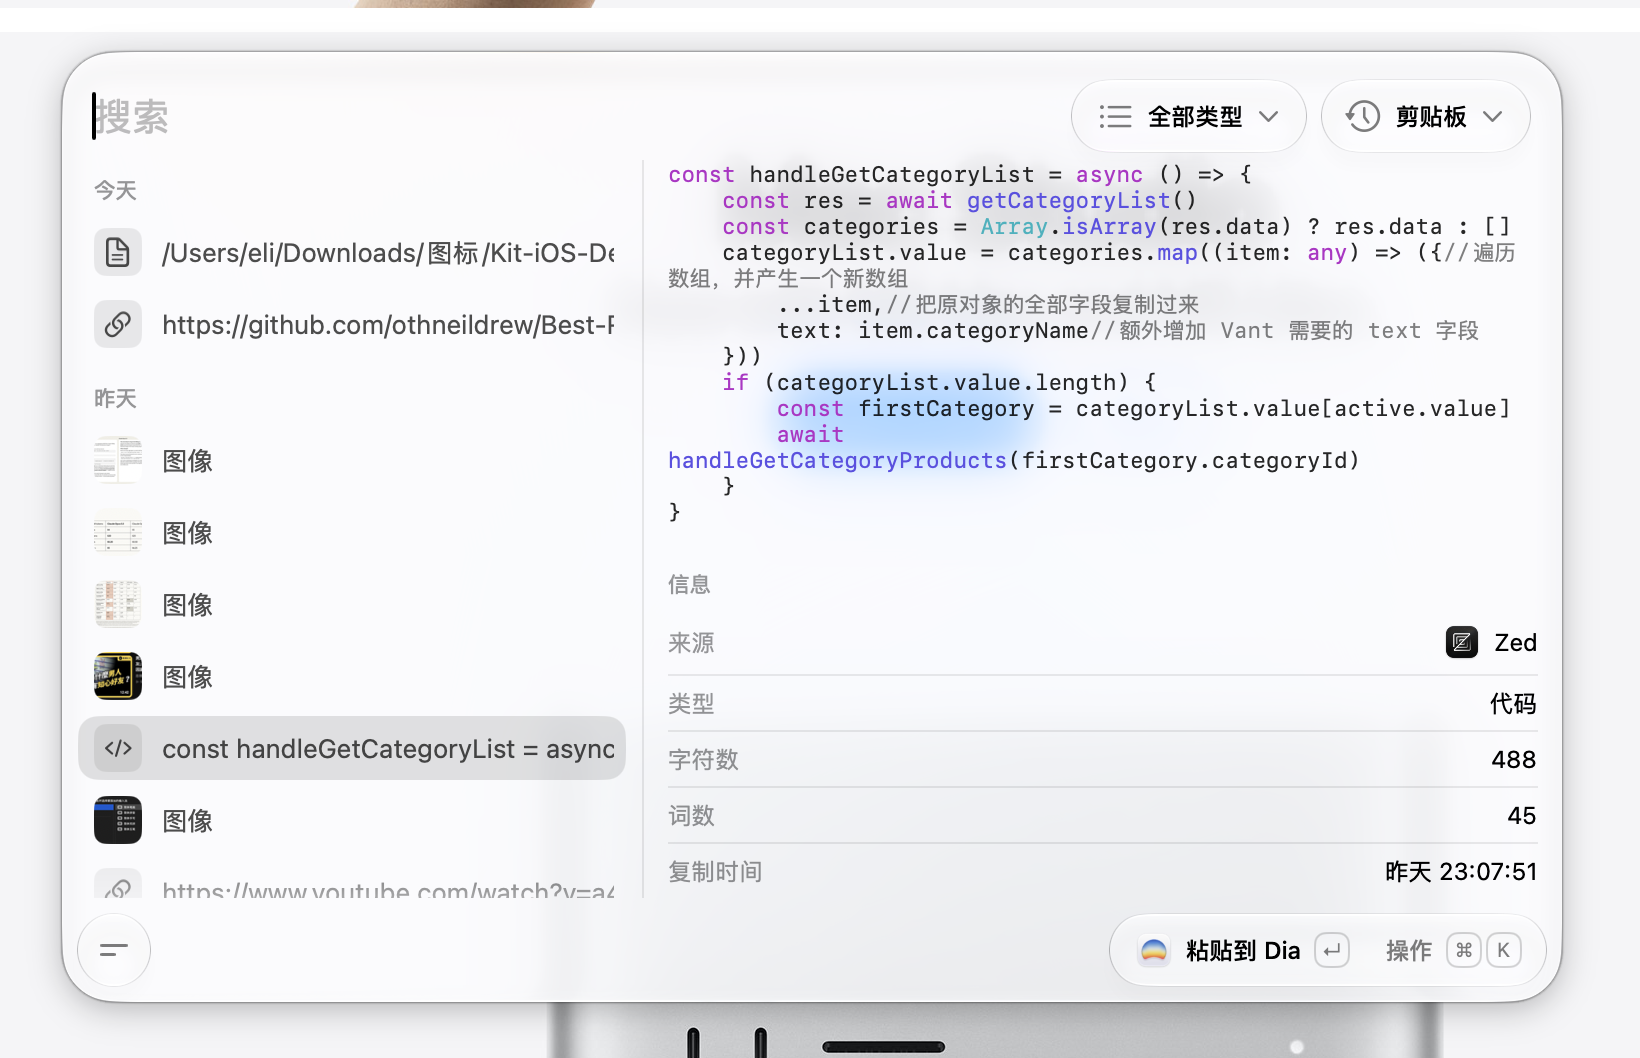
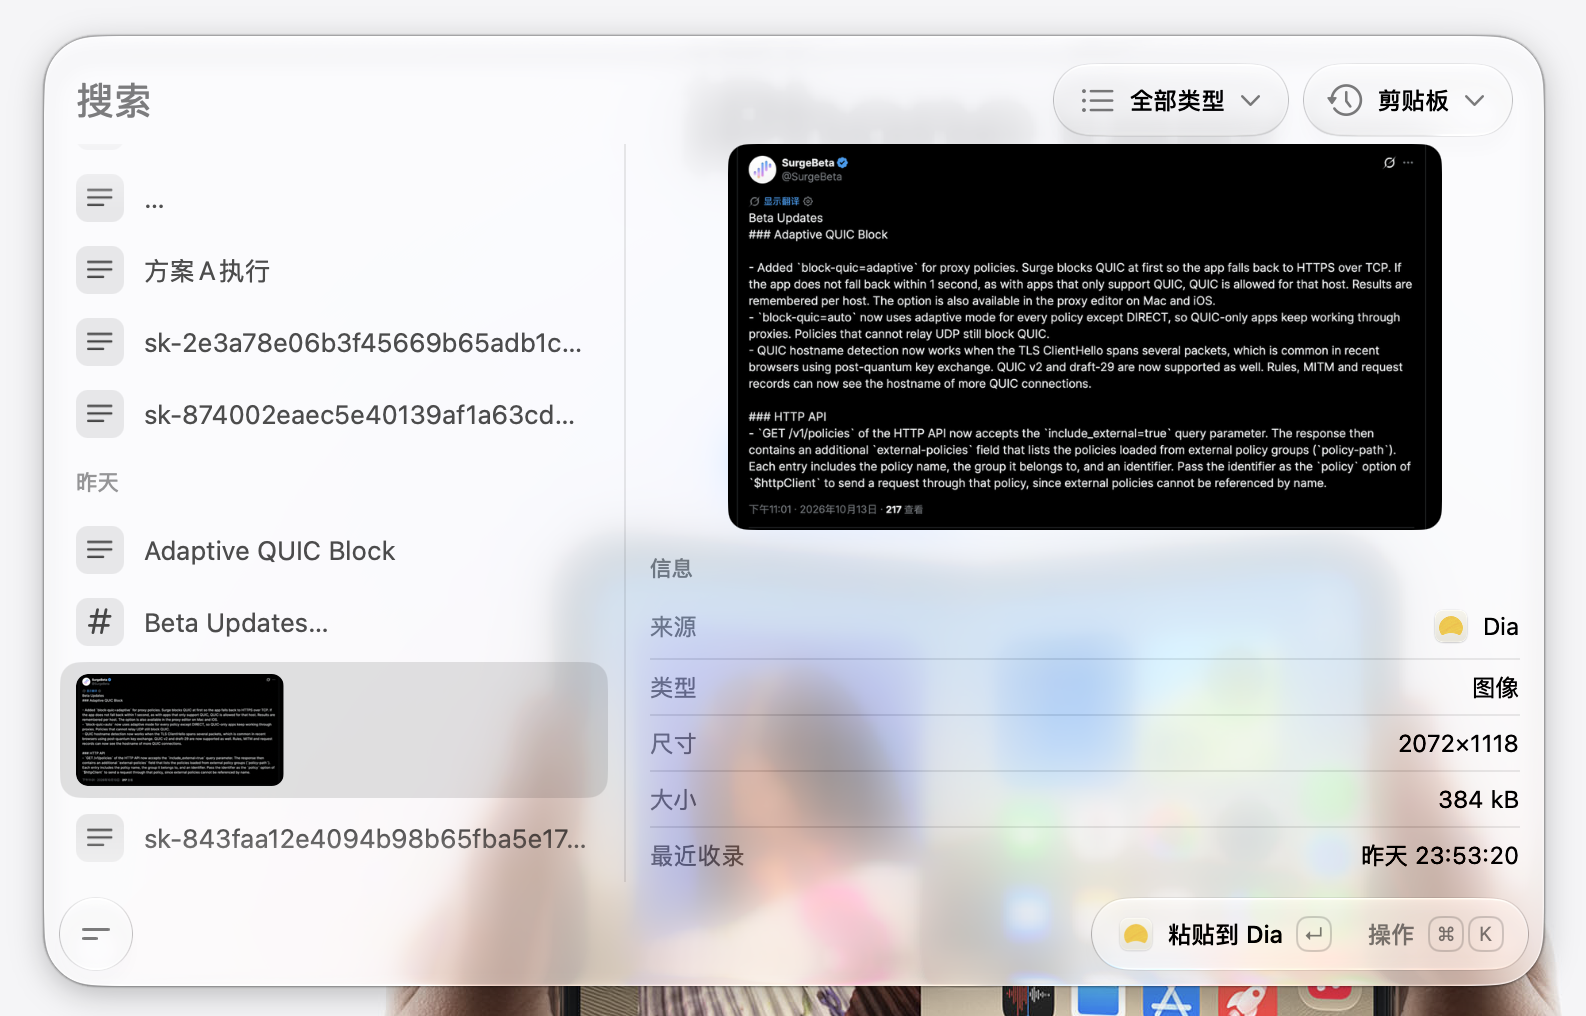
docs: update app screenshot and rewrite README in CN and EN

diff --git a/README.en.md b/README.en.md
@@ -5,8 +5,8 @@
 <h1 align="center">Kit</h1>
 
 <p align="center">
-  A native macOS clipboard history tool built for keyboard workflows.<br>
-  Capture text, code, links, and images, then search and paste them back into the source app.
+  A native macOS clipboard history tool built for keyboard workflows<br>
+  Capture text, code, links, and images, then search and paste back into the source app
 </p>
 
 <p align="center">
@@ -24,39 +24,40 @@
   <img src=".github/assets/readme-screenshot.png" alt="Kit clipboard history palette" width="820">
 </p>
 
-## What is Kit?
+## Overview
 
-Kit turns clipboard history into a command palette you can summon whenever you need it. Open the palette, search what you copied, select an item, and paste it back into the app you were using.
+Kit transforms clipboard history into an on-demand command palette, enabling seamless capture, search, pinning, and pasting entirely via keyboard workflows, with all data kept strictly on your local device
 
-## Features
+## Key Features
 
-- **Capture everyday content**: Save text, code, links, and images with their source app
-- **Find items quickly**: Search the full history with SQLite full-text search, including Chinese Pinyin and initials
-- **Stay on the keyboard**: Open the palette, search, select, and paste without leaving your workflow
-- **Preview images**: Browse thumbnails and hover over the image in the right-hand preview for a larger view
-- **Manage history**: Browse items by date, set a retention period, and exclude apps from capture
+- **Multi-Type Capture & Smart Classification**: Automatically captures plain text, Markdown, code, links, file paths, and images with source app and timestamp metadata, supporting local rule classification and opt-in LLM classification (OpenAI, OpenRouter, TypeSafe)
+- **Multi-Dimensional Search & Offline OCR**: Instant results powered by SQLite FTS full-text search, featuring full Pinyin and initialism matching for Chinese, plus local offline OCR to index and highlight matching text within image previews
+- **Keyboard-First Workflow**: Summon the palette instantly with a customizable global shortcut, paste directly, copy immediately, or paste continuously while keeping the palette open, automatically switching to English input to ensure uninterrupted typing, with quick deletion undo
+- **Image Pinning & Full Preview**: Pin image clippings to the front of the screen as floating sticky notes, supporting small, medium, and large sizing with transparent checkerboard backgrounds, and hover over list items for instant full-size previews
+- **Stacks & Organization**: Organize frequent clippings into custom Stacks, with dedicated shortcuts to switch rapidly across groups and content type filters
+- **Privacy & Granular Control**: All history resides strictly in local SQLite storage without cloud dependencies, with customizable application exclusion lists (Keychain Access and Passwords excluded by default), retention policies, and temporary capture pausing
+- **Native macOS Craftsmanship**: Built purely with Swift and SwiftUI/AppKit, offering Light/Dark appearances, Frosted Glass and Liquid Glass visual materials, subtle keyboard sound effects, and trackpad haptic feedback
 
-## Workflow
+## Shortcuts
 
-Press `Option + W` to show or hide the palette. Type to filter history, move with the arrow keys, and press Return to paste.
-
-| Shortcut | Action |
+| Shortcut | Description |
 | --- | --- |
-| `Return` | Paste and close the palette |
-| `⌘ Return` | Copy the selected item |
-| `⌘ Z` | Undo the last deletion; after typing, undo the text edit first |
-
-The action menu also lets you paste while keeping the palette open, reveal an image in Finder, or delete an item. You can record a different global shortcut in Settings.
+| `⌥ W` | Toggle clipboard palette (customizable) |
+| `Return` | Paste selected item and close palette |
+| `⇧ Return` | Paste selected item and keep palette open |
+| `⌘ Return` | Copy selected item to system clipboard |
+| `⌘ K` | Open item action menu |
+| `⌘ Z` | Undo last deletion (prioritizes text undo when editing) |
+| `⌥ ↓` / `⌥ ↑` | Switch to next / previous Stack |
+| `⌥ ⌘ ↓` / `⌥ ⌘ ↑` | Switch to next / previous content type filter |
 
 ## Privacy and Permissions
 
-Clipboard history and images stay on your Mac; no cloud service is required. Choose how long to keep history and which apps to exclude. Keychain Access and Passwords are excluded by default.
-
-Kit needs Accessibility permission to send the selected content back to the app that was active before the palette opened.
+All clipboard history and search indexes remain on your Mac without external cloud sync, and macOS Accessibility permission is required on first paste to return content to your active application
 
 ## Build from Source
 
-You need macOS 27, Xcode 27, and Swift 6.4.
+Requirements: macOS 27+, Xcode 27+, Swift 6.4+
 
 ```bash
 git clone https://github.com/imeelinew/Kit.git
@@ -64,8 +65,8 @@ cd Kit
 open Kit.xcodeproj
 ```
 
-In Xcode, select the **Kit** scheme and choose **Product → Run**. Grant Accessibility permission when prompted before the first paste operation.
+Select the **Kit** scheme in Xcode and choose **Product → Run** to build and launch
 
 ## License
 
-Kit is distributed under the [GNU Affero General Public License v3.0](LICENSE).
+Kit is open-sourced under the [GNU Affero General Public License v3.0](LICENSE)

diff --git a/README.md b/README.md
@@ -5,8 +5,8 @@
 <h1 align="center">Kit</h1>
 
 <p align="center">
-  为键盘工作流设计的原生 macOS 剪贴板历史工具。<br>
-  捕获文字、代码、链接和图片，快速搜索并粘贴回原应用。
+  为键盘工作流设计的原生 macOS 剪贴板历史工具<br>
+  捕获文字、代码、链接和图片，快速搜索并粘贴回原应用
 </p>
 
 <p align="center">
@@ -24,39 +24,40 @@
   <img src=".github/assets/readme-screenshot.png" alt="Kit 剪贴板历史面板" width="820">
 </p>
 
-## Kit 是什么
+## 简介
 
-Kit 把剪贴板历史做成一个随叫随到的命令面板。按下快捷键，搜索刚才复制过的内容，选中后即可粘贴回原来的应用。
+Kit 将剪贴板历史打造为随叫随到的命令面板，全键盘闭环完成捕获、检索、钉选与粘贴，数据完全保留在本地设备
 
-## 功能
+## 核心功能
 
-- **记录常用内容**：捕获文字、代码、链接和图片，并显示复制来源
-- **快速找到历史记录**：使用 SQLite 全文索引搜索完整历史，中文也支持拼音全拼和首字母
-- **用键盘完成操作**：呼出面板、搜索、选择和粘贴，无需切换工作流
-- **预览图片**：列表显示图片缩略图，将鼠标悬停在右侧预览图片上查看大图
-- **管理剪贴板**：按时间浏览记录，设置保留期限，并排除指定应用
+- **多类型捕获与智能分类**：自动捕获纯文本、Markdown、代码、链接、文件路径与图片，记录来源应用与时间，支持本地规则分类与可选的 LLM（OpenAI、OpenRouter、TypeSafe）智能分类
+- **多维模糊检索与离线 OCR**：基于 SQLite FTS 全文索引秒级响应，支持拼音全拼与首字母检索，内置离线图片文字 OCR 识别，并在图片预览中高亮标注匹配位置
+- **全键盘极速流转**：全局快捷键呼出，支持直接粘贴、快速复制与连续粘贴，呼出面板自动切换为英文输入状态，支持误删快捷撤销
+- **图片钉选与大图预览**：支持将图片以贴纸形式置顶钉选在屏幕，适配多档尺寸与透明底色棋盘格，列表悬停即时展开无损大图预览
+- **Stack 收藏与分类整理**：支持创建自定义 Stack 收藏常用条目，支持快捷键在分组与各数据类型间即时切换
+- **隐私保护与自主控制**：数据纯本地存储，支持应用黑名单排除（默认排除钥匙串与系统密码），支持自定义历史保存周期与临时暂停监控
+- **原生精致质感**：采用 Swift 原生架构，支持深浅外观与毛玻璃（Frosted Glass）/ Liquid Glass 视觉风格，配备按键音效与触控板触感反馈
 
-## 使用方式
+## 快捷键一览
 
-默认按 `Option + W` 呼出或隐藏面板。输入关键词过滤记录，用方向键选择，然后按回车粘贴。
-
-| 按键 | 操作 |
+| 快捷键 | 功能说明 |
 | --- | --- |
-| `Return` | 粘贴并关闭面板 |
-| `⌘ Return` | 复制所选内容 |
-| `⌘ Z` | 撤销上一次删除；输入文字后优先撤销文字编辑 |
-
-也可以从操作菜单中选择保持面板打开并粘贴、在 Finder 中显示图片或删除记录。呼出快捷键可在设置中重新录制。
+| `⌥ W` | 呼出或隐藏剪贴板面板（支持自定义） |
+| `Return` | 粘贴所选项并关闭面板 |
+| `⇧ Return` | 连续粘贴所选项并保持面板打开 |
+| `⌘ Return` | 复制所选项至剪贴板 |
+| `⌘ K` | 打开条目操作菜单 |
+| `⌘ Z` | 撤销上一次删除（文本编辑时优先撤销输入） |
+| `⌥ ↓` / `⌥ ↑` | 切换至下一个 / 上一个 Stack 分组 |
+| `⌥ ⌘ ↓` / `⌥ ⌘ ↑` | 切换至下一个 / 上一个内容类型筛选 |
 
 ## 隐私与权限
 
-剪贴板历史和图片保存在本机，不需要云端服务。你可以设置历史保留期限，并指定不参与捕获的应用；“钥匙串访问”和“密码”默认排除。
-
-Kit 需要辅助功能权限，才能将选中的内容发送回呼出面板前正在使用的应用。
+剪贴板数据与索引完全保存在本机，不经由任何云端服务，首次粘贴需要按系统提示授予 macOS 辅助功能（Accessibility）权限
 
 ## 从源码构建
 
-需要 macOS 27、Xcode 27 和 Swift 6.4。
+环境要求：macOS 27+，Xcode 27+，Swift 6.4+
 
 ```bash
 git clone https://github.com/imeelinew/Kit.git
@@ -64,8 +65,8 @@ cd Kit
 open Kit.xcodeproj
 ```
 
-在 Xcode 中选择 **Kit** scheme，然后运行 **Product → Run**。首次粘贴前，请按系统提示授予辅助功能权限。
+在 Xcode 中选择 **Kit** scheme 并点击 **Product → Run** 即可编译运行
 
 ## 许可证
 
-Kit 基于 [GNU Affero General Public License v3.0](LICENSE) 发布。
+Kit 基于 [GNU Affero General Public License v3.0](LICENSE) 开源
